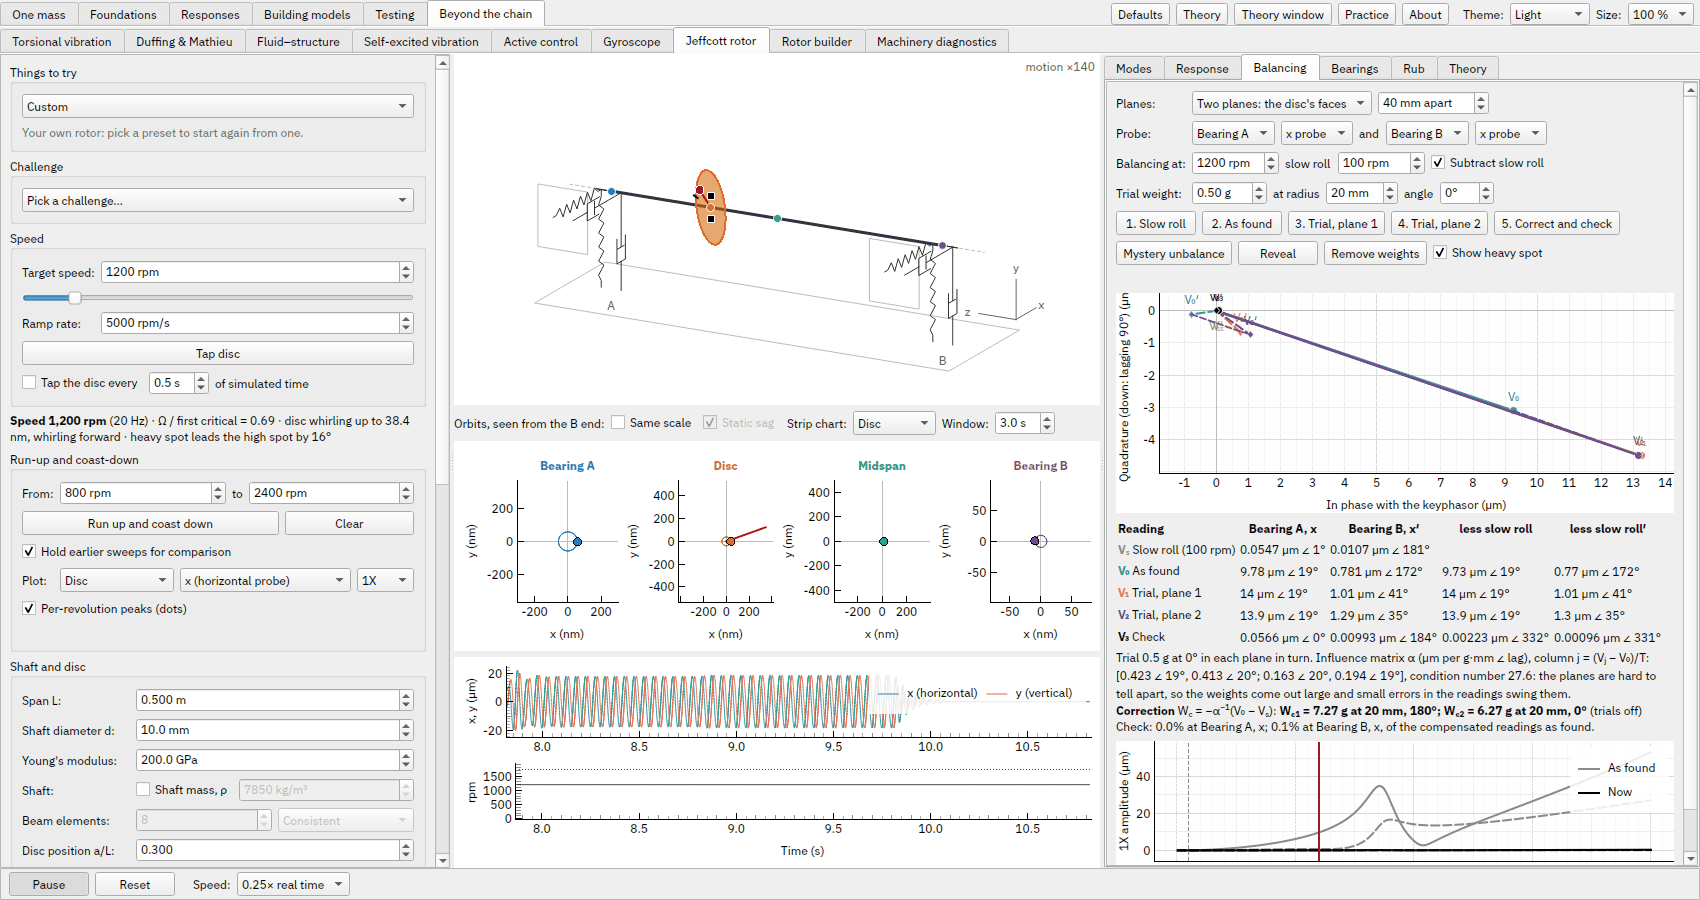
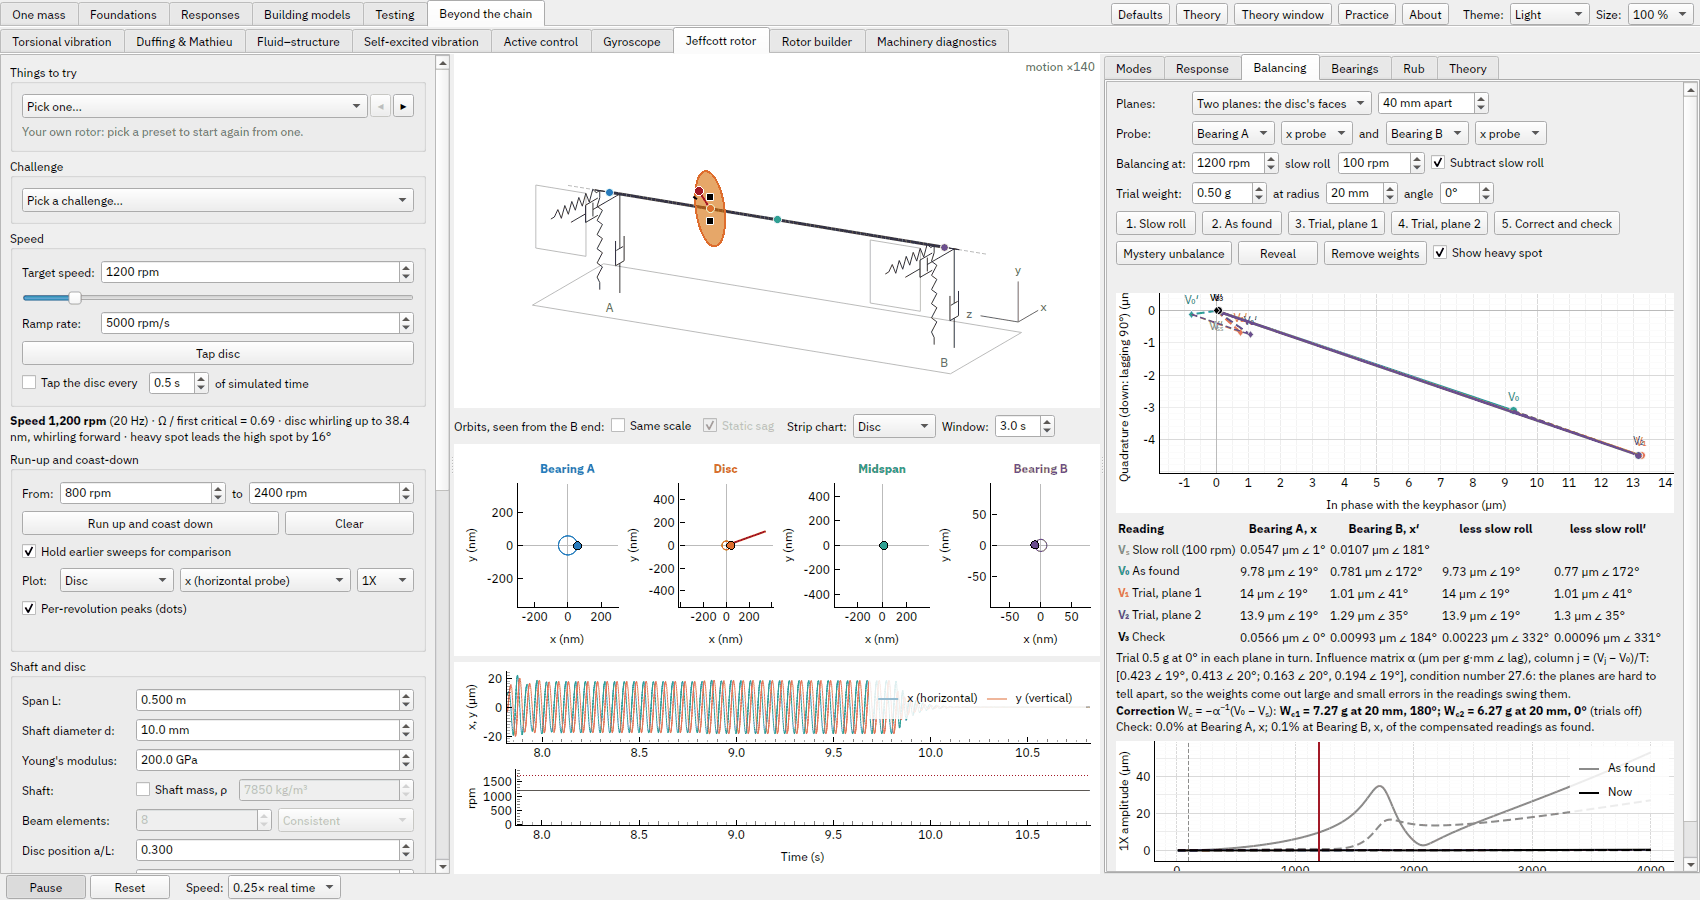
Jeffcott rotor: its presets in a TrialBox, four asking a prediction first, and goals up front (#316 B3)
The presets are the page's Things to try (a TrialBox: numbered, stepped, a preset with a predict asks it
before it loads): anisotropic supports (two criticals, backward whirl between), the overhung disc (its
critical above 870 rpm), oil swirl (a forward whirl locked in frequency) and the full rub (backward).
"Full rub (backward whirl)" gave its answer and is "Full rub (a tight seal)". The page names the preset
its rotor is (preset_name), not the combo's text, which shows a preset still asking. The notes open with
three goals. Screenshots of the rotor redrawn.

diff --git a/src/vib_tutorial/theory/rotor_notes.html b/src/vib_tutorial/theory/rotor_notes.html
@@ -5,6 +5,11 @@
 <a href="page:complex_page#sweep">Sweeping a damper</a>
 <a href="page:duffing_page#harmonic-balance">Harmonic balance</a>
 </before>
+<goals page="rotor_page">
+<li trial="1" problem="critical">find a rotor's critical speed, and run it up through it;</li>
+<li trial="4" problem="overhung">see the spin split a tilting disc's whirl into forward and backward;</li>
+<li trial="8" problem="oil-whip">find where oil whip sets in, and see why more damping doesn't move it.</li>
+</goals>
 <h2>The Jeffcott rotor</h2>
 <p>A disc on a flexible, massless shaft between two bearings is the simplest model of a rotating
 machine. H. H. Jeffcott's 1919 paper <cite>jeffcott-1919</cite> (and A. Föppl's of 1895 <cite>foppl-1895</cite>, hence also the <i>Laval</i> or

diff --git a/tests/test_gui_smoke.py b/tests/test_gui_smoke.py
@@ -2168,13 +2168,13 @@ def test_rotor_presets_speed_range_and_overhung_disc(app):
     w.pages.setCurrentWidget(p)
     p.loop.timer.stop()
     # The defaults are the classic preset.
-    assert p.preset.currentText() == "Classic Jeffcott rotor" and "1584 rpm" in p.preset_note.text()
+    assert p.preset_name() == "Classic Jeffcott rotor" and "1584 rpm" in p.trials.note.text()
 
     # Each preset loads its rotor, speed range and target, from rest, and the panels show it exactly.
     for preset in p.presets:
         p.load_preset(preset.name)
         p._refresh_analysis()
-        assert p.preset.currentText() == preset.name
+        assert p.preset_name() == preset.name
         assert p.top_rpm == preset.top_rpm and p.speed_slider.maximum() == int(preset.top_rpm)
         assert p.sim.target == pytest.approx(preset.target_rpm / RPM) and p.sim.t == 0.0
         assert p.campbell.omega[-1] == pytest.approx(preset.top_rpm / RPM)
@@ -2192,7 +2192,7 @@ def test_rotor_presets_speed_range_and_overhung_disc(app):
     assert "overhang" in p.matrices.toHtml()
     # Editing a parameter makes it the user's own rotor.
     p.editor.disc_mass.setValue(2.0)
-    assert p.preset.currentText() == CUSTOM
+    assert p.preset_name() == CUSTOM
 
     # The position steps over the bearings, and a typed value on one is moved off it.
     p.set_system(RotorSystem(position=0.95))
@@ -2323,7 +2323,7 @@ def test_rotor_shaft_mass(app):
     p.load_preset("Classic Jeffcott rotor")
     assert not p.editor.shaft_mass.isChecked() and p.sim.q.size == 8
     p.editor.elements.setValue(12)
-    assert p.preset.currentText() == "Classic Jeffcott rotor"
+    assert p.preset_name() == "Classic Jeffcott rotor"
     p._refresh_analysis()
     assert not any(line.isVisible() for line in p.campbell_plot.reference)
     p.set_system(RotorSystem(density=2700.0, elements=6, lumped=True))
@@ -2417,7 +2417,7 @@ def test_rotor_cracked_shaft(app):
     p.load_preset("Cracked shaft (breathing crack)")
     p._refresh_analysis()
     s = p.sim.system
-    assert p.preset.currentText() == "Cracked shaft (breathing crack)"
+    assert p.preset_name() == "Cracked shaft (breathing crack)"
     assert (
         s.crack.depth == pytest.approx(0.4)
         and s.crack.breathing
@@ -2766,11 +2766,7 @@ def test_rotor_on_oil_film_bearings(app):
     p.load_preset("Journal bearings (oil whip)")
     p._refresh_analysis()
     s = p.sim.system
-    assert (
-        s.films
-        and p.editor.supports.currentIndex() == FILMS
-        and p.preset.currentText() == "Journal bearings (oil whip)"
-    )
+    assert s.films and p.editor.supports.currentIndex() == FILMS and p.preset_name() == "Journal bearings (oil whip)"
     assert s.whole_films and p.editor.nonlinear_film.isChecked() and p.editor.nonlinear_film.isEnabled()
     row = p.editor.bearing_rows[0]
     assert row[4].isEnabled() and not any(row[c].isEnabled() for c in (0, 1, 2, 3, 5, 6))
@@ -2786,9 +2782,9 @@ def test_rotor_on_oil_film_bearings(app):
     # Changing the bearing on the tab changes the rotor's (and makes it the user's own rotor).
     panel.clearance.setValue(20.0)
     assert p.sim.system.bearing_a.film.clearance == pytest.approx(20e-6)
-    assert p.preset.currentText() == CUSTOM
+    assert p.preset_name() == CUSTOM
     panel.set_bearing(JournalBearing())
-    assert p.preset.currentText() == "Journal bearings (oil whip)"
+    assert p.preset_name() == "Journal bearings (oil whip)"
     # A frame's budget caps how far a slow simulation advances: the page falls behind instead.
     p._cost = 1.0  # s of computing per simulated s
     t0 = p.sim.t
@@ -2847,7 +2843,7 @@ def test_rotor_on_magnetic_bearings(app):
     p.load_preset("Magnetic bearings")
     p._refresh_analysis()
     s = p.sim.system
-    assert s.magnets and p.editor.supports.currentIndex() == MAGNETS and p.preset.currentText() == "Magnetic bearings"
+    assert s.magnets and p.editor.supports.currentIndex() == MAGNETS and p.preset_name() == "Magnetic bearings"
     assert panel.bearing() == s.bearing_a.magnet and panel.amplifier.value() == 400.0
     assert not p.editor.nonlinear_film.isVisibleTo(p)
     row = p.editor.bearing_rows[0]
@@ -2867,11 +2863,11 @@ def test_rotor_on_magnetic_bearings(app):
     assert "the journals at (0, 0) µm vertically" in html
     # Changing the bearing on the tab changes the rotor's (and makes it the user's own rotor).
     panel.amplifier.setValue(1000.0)
-    assert p.sim.system.bearing_a.magnet.amplifier_hz == 1000.0 and p.preset.currentText() == CUSTOM
+    assert p.sim.system.bearing_a.magnet.amplifier_hz == 1000.0 and p.preset_name() == CUSTOM
     p._refresh_analysis()
     assert panel.onset is None and "stays stable up to 20,000 rpm" in panel.readout.text()
     panel.set_bearing(replace(MagneticBearing(), amplifier_hz=400.0))
-    assert p.preset.currentText() == "Magnetic bearings"
+    assert p.preset_name() == "Magnetic bearings"
     # Too weak a magnet: flagged on the tab.
     panel.kp.setValue(900.0)
     assert "the magnets outpull the controller" in panel.readout.text()
@@ -2910,7 +2906,7 @@ def test_rotor_rub(app):
     assert p.sim.system.stator is None and not panel.clearance.isEnabled()
     # Ticking the ring puts it on the rotor (the user's own rotor), drawn round the disc.
     panel.enabled.setChecked(True)
-    assert p.sim.system.stator == Stator() and p.preset.currentText() == CUSTOM
+    assert p.sim.system.stator == Stator() and p.preset_name() == CUSTOM
     assert "At rest it has 200 µm to the ring" in panel.readout.text() and "227 Hz" in panel.readout.text()
     panel.friction.setValue(0.2)
     assert p.sim.system.stator.friction == 0.2
@@ -2925,9 +2921,7 @@ def test_rotor_rub(app):
     assert p.sim.system.stator is not None and p.sim.system.films
     # The preset: rubbing under the sag; the push plotted while the tab shows.
     p.load_preset("Partial rub (½X)")
-    assert (
-        panel.enabled.isChecked() and panel.clearance.value() == 385.0 and p.preset.currentText() == "Partial rub (½X)"
-    )
+    assert panel.enabled.isChecked() and panel.clearance.value() == 385.0 and p.preset_name() == "Partial rub (½X)"
     assert "sags 378 µm" in panel.readout.text() and "leaving 7.06 µm" in panel.readout.text()
     p.tabs.show_page(panel)
     p._catch_up_tab()

diff --git a/src/vib_tutorial/gui/rotor.py b/src/vib_tutorial/gui/rotor.py
@@ -54,8 +54,7 @@ from .challenge import ChallengeBox
 from .cms_time import SampleBuffer
 from .frame_loop import FrameLoop
 from .layouts import ColumnScroll, FlowLayout, form_layout, group
-from .lesson import RunButton
-from .maths import markup
+from .lesson import RunButton, TrialBox
 from .notes_view import NotesBrowser
 from .panels import spin
 from .rotor_balance import BalancingPanel
@@ -90,6 +89,7 @@ SPEEDS = (0.1, 0.25, 0.5, 1.0, 2.0)  # simulation speed, × real time
 TOP_RPM = 10_000.0  # the default speed range
 MAX_TOP_RPM = 60_000.0  # the widest it can be set to
 PROBLEMS = rotor_practice.PROBLEMS  # the page's practice problems, kept beside it in rotor_practice
+TRIALS = tuple(rotor_presets())  # its Things to try are the presets (goals' trial: links count them)
 PRACTICE_SETUP = RotorSetup  # what a practice problem's setup and the page's practice_state are
 CUSTOM = "Custom"  # the preset box's entry for a rotor that is none of the presets  # other orders of the speed the Campbell diagram can draw
 DIRECTION_NAMES = ("x (horizontal probe)", "y (vertical probe)", "Orbit (major axis)")
@@ -360,24 +360,22 @@ class RotorPage(QtWidgets.QWidget):
         self._draw()
 
     # ------------------------------------------------------------- panels
-    def _preset_box(self) -> QtWidgets.QGroupBox:
-        box = QtWidgets.QGroupBox("Things to try")
-        v = QtWidgets.QVBoxLayout(box)
+    def _preset_box(self) -> TrialBox:
+        """The presets as Things to try: a preset with a `predict` asks it before it loads."""
         self.presets = rotor_presets()
-        self.preset = QtWidgets.QComboBox()
-        self.preset.setAccessibleName("Rotor preset")
-        self.preset.addItems([p.name for p in self.presets] + [CUSTOM])
-        self.preset.setToolTip(
+        self._matched: int | None = None  # the preset the rotor is (`_show_preset`), None: the reader's own
+        self.trials = TrialBox(
+            [p.name for p in self.presets],
             "<p>Load a rotor that shows one effect clearly, with a speed range to suit it. It starts from "
-            "rest and runs up to its target speed. Change any parameter and it becomes your own rotor.</p>"
+            "rest and runs up to its target speed. Change any parameter and it becomes your own rotor.</p>",
+            predictions=[p.predict for p in self.presets],
         )
-        self.preset.activated.connect(self._on_preset)
-        self.preset_note = QtWidgets.QLabel()
-        self.preset_note.setWordWrap(True)
-        mute(self.preset_note)
-        v.addWidget(self.preset)
-        v.addWidget(self.preset_note)
-        return box
+        self.trials.picked.connect(self._on_preset)
+        return self.trials
+
+    def preset_name(self) -> str:
+        """The preset the rotor is, or CUSTOM (not the combo's text: a preset asking its prediction isn't loaded)."""
+        return self.presets[self._matched].name if self._matched is not None else CUSTOM
 
     def _speed_box(self) -> QtWidgets.QGroupBox:
         box = QtWidgets.QGroupBox("Speed")
@@ -536,31 +534,29 @@ class RotorPage(QtWidgets.QWidget):
     def practice_state(self) -> RotorSetup:
         """The page's rotor and speeds, as a setup: what a practice spec checks."""
         return RotorSetup(
-            self.preset.currentText(), target_rpm=self.target_rpm.value(), top_rpm=self.top_rpm, rotor=self.system()
+            self.preset_name(), target_rpm=self.target_rpm.value(), top_rpm=self.top_rpm, rotor=self.system()
         )
 
     def frame_context(self) -> str:
         """For the frame log (frame_stats): the preset showing."""
-        return self.preset.currentText()
+        return self.preset_name()
 
     def _on_preset(self, index: int) -> None:
-        if index < len(self.presets):
-            self.load_preset(self.presets[index].name)
-            self._run(True)  # the reader picked it, as a trial
-        else:
-            self._show_preset(self.sim.system)  # Custom is not a rotor: show what is loaded
+        self.load_preset(self.presets[index].name)
+        self._run(True)  # the reader picked it, as a trial
 
     def _show_preset(self, system: RotorSystem) -> None:
-        """Select the preset this rotor is, or Custom, and show its note."""
-        index = next((i for i, p in enumerate(self.presets) if _same_rotor(p.system, system)), len(self.presets))
-        self.preset.blockSignals(True)
-        self.preset.setCurrentIndex(index)
-        self.preset.blockSignals(False)
-        self.preset_note.setText(
-            markup(self.presets[index].note)
-            if index < len(self.presets)
-            else "Your own rotor: pick a preset to start again from one."
-        )
+        """Show the preset this rotor is, with its note, or the reader's own rotor."""
+        self._matched = next((i for i, p in enumerate(self.presets) if _same_rotor(p.system, system)), None)
+        combo = self.trials.combo
+        if self._matched is None:
+            combo.unpick()
+            self.trials.show_note("Your own rotor: pick a preset to start again from one.")
+        else:
+            combo.blockSignals(True)
+            combo.setCurrentIndex(self._matched + combo.first)
+            combo.blockSignals(False)
+            self.trials.show_note(self.presets[self._matched].note)
 
     def set_weights(self, weights: tuple[complex, ...], plane_weights: tuple[PlaneWeight, ...] = ()) -> None:
         """Put these balance weights on the disc (kg·m each) and in these planes, in place of any there."""

diff --git a/src/vib_tutorial/core/rotor_presets.py b/src/vib_tutorial/core/rotor_presets.py
@@ -10,6 +10,7 @@ from dataclasses import dataclass
 
 from .fluid_bearing import JournalBearing
 from .magnetic_bearing import MagneticBearing
+from .practice import Prediction
 from .rotor import STEEL, Bearing, Crack, RotorSystem, Stator
 
 # The overhung rotor: a 3 kg disc of radius 150 mm (I_p = m R²/2, I_d = m R²/4), 100 mm past
@@ -34,6 +35,7 @@ class RotorPreset:
     top_rpm: float  # the speed range shown (Campbell diagram, stability map, Bode plot)
     target_rpm: float  # the speed it runs up to when loaded
     note: str  # one or two sentences: what to look for
+    predict: Prediction | None = None  # asked before it loads (Things to try); the note is the explanation
 
 
 def rotor_presets() -> list[RotorPreset]:
@@ -64,6 +66,15 @@ def rotor_presets() -> list[RotorPreset]:
             1500.0,
             "Supports four times stiffer vertically: the critical splits into 1365 rpm (horizontal) and "
             "1668 rpm (vertical), and between them the shaft whirls backward on an ellipse.",
+            predict=Prediction(
+                "The supports are four times stiffer vertically than horizontally. Running up through the first mode, how many critical speeds does the unbalance find?",
+                (
+                    "One, between the two stiffnesses' speeds",
+                    "Two, with backward whirl between them",
+                    "None: the supports damp it out",
+                ),
+                1,
+            ),
         ),
         RotorPreset(
             "Overhung rotor",
@@ -81,6 +92,11 @@ def rotor_presets() -> list[RotorPreset]:
             "A large disc 100 mm past bearing B tilts as much as it moves, so the gyroscopic moment "
             "dominates: the first mode, 870 rpm at rest, meets 1X backward at 664 rpm and forward at "
             "1284 rpm, the only one the unbalance drives.",
+            predict=Prediction(
+                "A large disc overhung past bearing B, its first mode 870 rpm at rest. Spinning, where does the unbalance find its critical speed?",
+                ("Below 870 rpm", "At 870 rpm", "Above 870 rpm"),
+                2,
+            ),
         ),
         RotorPreset(
             "Long shaft, with its mass",
@@ -130,6 +146,15 @@ def rotor_presets() -> list[RotorPreset]:
             "The oil swirls round at half the shaft's speed, so the cross-coupling grows as <m>cΩ</m>/2. Past "
             "twice the first natural frequency, 3136 rpm, the forward whirl grows: oil whip, locked at "
             "26 Hz whatever the speed.",
+            predict=Prediction(
+                "The oil in the bearings swirls round at half the shaft's speed. What happens past twice the first natural frequency?",
+                (
+                    "Nothing: the oil damps the whirl",
+                    "A forward whirl grows, at a frequency that stays put as the speed rises",
+                    "A backward whirl grows, at half the speed",
+                ),
+                1,
+            ),
         ),
         RotorPreset(
             "Journal bearings (oil whip)",
@@ -164,7 +189,7 @@ def rotor_presets() -> list[RotorPreset]:
             "revolutions, and the spectrum shows ½X (36.7 Hz at 4400 rpm) and its harmonics.",
         ),
         RotorPreset(
-            "Full rub (backward whirl)",
+            "Full rub (a tight seal)",
             RotorSystem(stator=Stator(clearance=30e-6, friction=0.3)),
             10_000.0,
             2000.0,
@@ -173,6 +198,11 @@ def rotor_presets() -> list[RotorPreset]:
             "into backward whirl at 227 Hz, the disc's frequency on the ring, far above the speed. The "
             "rim rolls round the ring, so the orbit's radius is <m>RΩ</m>/<m>ω</m>, 7.3 mm at 2000 rpm, pushing the "
             "ring back far past its clearance: dry whirl, which would wreck a real machine.",
+            predict=Prediction(
+                "A seal ring 30 µm round the disc, with dry friction. Running up through the critical, the whirl reaches the ring and rubs all round. Which way does the disc whirl then?",
+                ("Forward, with the spin", "Backward, against the spin", "Not at all: the ring holds it still"),
+                1,
+            ),
         ),
         RotorPreset(
             "Newkirk effect (thermal bow)",

diff --git a/tests/test_native.py b/tests/test_native.py
@@ -208,8 +208,8 @@ def test_film_steps_match_the_reference(gravity, density, rpm, drifts):
     "name, density, rpm",
     [
         ("Partial rub (½X)", 0.0, 4400.0),  # under gravity, hitting the ring's bottom now and then
-        ("Full rub (backward whirl)", 0.0, 2000.0),  # held against it all round, the friction's drag stiff
-        ("Full rub (backward whirl)", 7800.0, 2000.0),  # a shaft with mass: more states than the stations'
+        ("Full rub (a tight seal)", 0.0, 2000.0),  # held against it all round, the friction's drag stiff
+        ("Full rub (a tight seal)", 7800.0, 2000.0),  # a shaft with mass: more states than the stations'
         ("Newkirk effect (thermal bow)", 0.0, 1300.0),  # the thermal bow moving the load between chunks
     ],
 )

diff --git a/tests/test_rotor_rub.py b/tests/test_rotor_rub.py
@@ -162,7 +162,7 @@ def test_partial_rub_preset_whirls_at_half_the_speed():
 
 
 def test_full_rub_preset_flips_to_backward_whirl():
-    p = PRESETS["Full rub (backward whirl)"]
+    p = PRESETS["Full rub (a tight seal)"]
     s = p.system
     t, x, y, w, _rub = run(s, p.target_rpm, 6.0)
     r = np.hypot(x, y)
@@ -180,7 +180,7 @@ def test_full_rub_preset_flips_to_backward_whirl():
 
 def test_things_to_try():
     """The theory notes' Things to try for rub."""
-    s = PRESETS["Full rub (backward whirl)"].system
+    s = PRESETS["Full rub (a tight seal)"].system
     t, x, y, _, _ = run(s.with_(stator=replace(s.stator, friction=0.1)), 2000.0, 6.0)
     last = t > 5.0
     swept = x[:-1] * np.diff(y) - y[:-1] * np.diff(x)

diff --git a/scripts/mac_timings.py b/scripts/mac_timings.py
@@ -160,7 +160,7 @@ SCENARIOS = (
         _rotor("Cracked shaft (breathing crack)", 3000.0),
     ),
     Scenario("Rotor: oil whirl (vertical rotor), 1×", "#94 film kernel", _rotor("Oil whirl (vertical rotor)")),
-    Scenario("Rotor: full rub, 1×", "rub kernel", _rotor("Full rub (backward whirl)")),
+    Scenario("Rotor: full rub, 1×", "rub kernel", _rotor("Full rub (a tight seal)")),
     Scenario(
         "Duffing: hardening spring, 50×",
         "FOH + Newton stepper (#130, low priority)",
